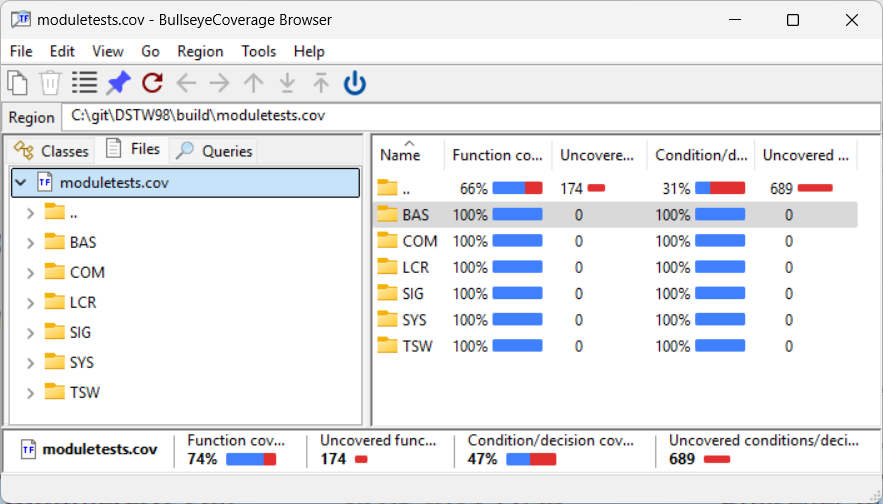
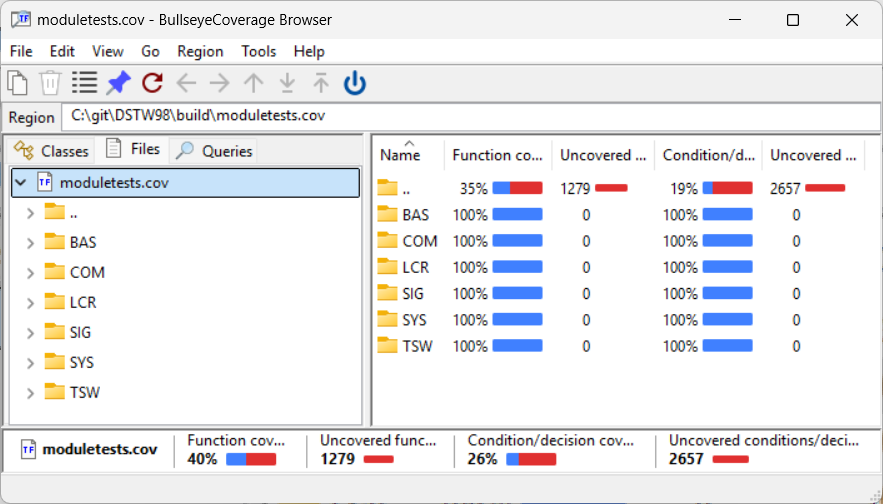
asap

diff --git a/bullseye_coverage/setup_module_test_script.md b/bullseye_coverage/setup_module_test_script.md
@@ -79,7 +79,7 @@ application/components shall be the top level of reports output
 |   |-- CppUTestSteps
 |   `-- cpputest
 ```
-- moduletests.vcxproj - console app using submodules.lib
+- moduletests.vcxproj - console app depending on  submodules.lib
 ```
 |-- application
 |   |-- components
@@ -130,10 +130,9 @@ set excludeFile=%myDir%\exclude.txt
 ```cmd
 set COVCOPT=--srcdir %compDir% --macro
 ```
-- desired coverage
-(function,decision in %)
+- define project coverage goal (function,decision in %)
 ```cmd
-set covMinima=100,98
+set projectCoverageGoal=100,98
 ```
 - exit status
 ```cmd
@@ -168,18 +167,8 @@ if %clean% == 1 (
 )
 ```
 ### build
-#### without coverage
-(see [remarks](##remarks))
--   deactivate coverage instrumentation
--   call ms build
- ```cmd
-cov01 -q --off
-%buildCall% -t:submodules
-if %errorlevel% NEQ 0 goto err
-```
-#### coverage instrumented
 -   activate coverage instrumentation
--   call ms build
+-   call build
 ```cmd
 cov01 -q --on
 %buildCall% -t:moduletests
@@ -220,12 +209,14 @@ cd %buildDir%
 covdir -q --by-name > %report%
 type %report%
 ```
--   apply coverage minima reached check and save return for script exit
+-   apply project coverage goal reached check 
+	- save return for script exit
 ```cmd
-covdir -q --checkmin %covMinima%
+covdir -q --checkmin %projectCoverageGoal%
 set elevel=%errorlevel%
 ```
--   if not 100% coverage - write todo report using _covbr_ (see [appendix](##appendix))
+-   apply 100% coverage reached check
+	-  write todo report using _covbr_ if not reached (see [appendix](##appendix)) 
 ```cmd
 covdir -q --checkmin 100,100
 if %errorlevel% NEQ 0 covbr -qu > %todoTxt%
@@ -251,28 +242,28 @@ run script
 
 ```shell
 Exception: cannot open 'c:\git\DSTW98\scripts\coverage\exclude.txt': No such file or directory
-Directory                                 Function Coverage        C/D Coverage
-----------------------------------------  -----------------  ------------------
-../../                                     345 / 519 =  66%   312 / 1001 =  31%
-../../specification/ifs/                     6 /   6 = 100%     0 /    0
-../../submodules/                            7 / 149 =   4%     0 /    6 =   0%
-../../testing/                             332 / 364 =  91%   312 /  995 =  31%
-../../testing/testenv/                     197 / 227 =  86%    36 /   58 =  60%
-../../testing/tests/moduletests/           135 / 137 =  98%   276 /  937 =  29%
-BAS/                                        43 /  43 = 100%    32 /   32 = 100%
-BAS/src/                                     7 /   7 = 100%     0 /    0
-COM/                                        51 /  51 = 100%    70 /   70 = 100%
-COM/src/                                    40 /  40 = 100%    70 /   70 = 100%
-LCR/                                        12 /  12 = 100%    37 /   37 = 100%
-LCR/src/                                     7 /   7 = 100%    37 /   37 = 100%
-SIG/                                        26 /  26 = 100%    91 /   91 = 100%
-SIG/src/                                    19 /  19 = 100%    91 /   91 = 100%
-SYS/                                        32 /  32 = 100%    65 /   65 = 100%
-SYS/src/                                    16 /  16 = 100%    59 /   59 = 100%
-TSW/                                         8 /   8 = 100%    22 /   22 = 100%
-TSW/src/                                     6 /   6 = 100%    22 /   22 = 100%
-----------------------------------------  -----------------  ------------------
-Total                                      517 / 691 =  74%   629 / 1318 =  47%
+Directory                         Function Coverage        C/D Coverage
+-------------------------------- ------------------  ------------------
+../../                            707 / 1986 =  35%   658 / 3315 =  19%
+../../specification/ifs/            6 /    6 = 100%     0 /    0
+../../submodules/                 369 / 1616 =  22%   346 / 2320 =  14%
+../../testing/                    332 /  364 =  91%   312 /  995 =  31%
+../../testing/testenv/            197 /  227 =  86%    36 /   58 =  62%
+../../testing/tests/moduletests/  135 /  137 =  98%   276 /  937 =  29%
+BAS/                               43 /   43 = 100%    32 /   32 = 100%
+BAS/src/                            7 /    7 = 100%     0 /    0
+COM/                               51 /   51 = 100%    70 /   70 = 100%
+COM/src/                           40 /   40 = 100%    70 /   70 = 100%
+LCR/                               12 /   12 = 100%    37 /   37 = 100%
+LCR/src/                            7 /    7 = 100%    37 /   37 = 100%
+SIG/                               26 /   26 = 100%    91 /   91 = 100%
+SIG/src/                           19 /   19 = 100%    91 /   91 = 100%
+SYS/                               32 /   32 = 100%    65 /   65 = 100%
+SYS/src/                           16 /   16 = 100%    59 /   59 = 100%
+TSW/                                8 /    8 = 100%    22 /   22 = 100%
+TSW/src/                            6 /    6 = 100%    22 /   22 = 100%
+-------------------------------- ------------------  ------------------
+Total                             879 / 2158 =  40%   975 / 3632 =  26%
 
 C:\git\DSTW98>echo %errorlevel%
 1
@@ -328,7 +319,6 @@ C:\git\DSTW98>echo %errorlevel%
 ### the files
 Find script and exclude file at the [DSTW98 repo](https://github.com/sorgom/DSTW98/tree/SOM_DEVEL/scripts/coverage).
 
-
 ## remarks
 ### decent relative paths output
 Bullseye output is a bit tricky to handle.
@@ -344,20 +334,6 @@ covdir -q --by-name > %report%
 cd %compDir%
 covdir -q --by-name --srcdir . > %report%
 ```
-### exclude regions from instrumentation during build
-
-There is no actual need to exclude parts from instrumented build.
-
-- What you can safely exclude:
-    - third party sources (like CppUTest) that you have linked as git submodules
-
-- What you should not exclude:
-    - your own test environment - you might finally want to check what was really used
-
-![include testenv](07_include_testenv.png)
-
-![testenv coverage](08_testenv_coverage.png)
-
 ### HTML reports from CI pipelines
 
 There is no reason to generate and save HTML reports cause no one reads them.
